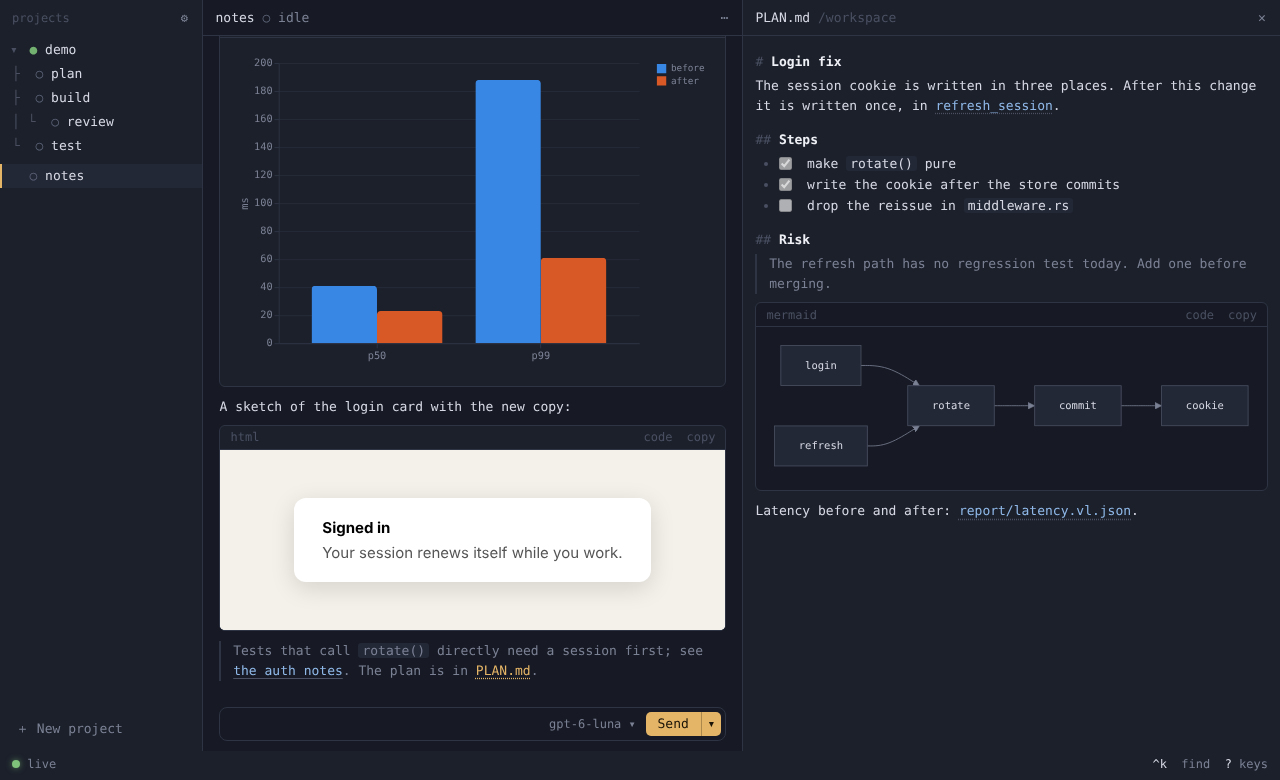
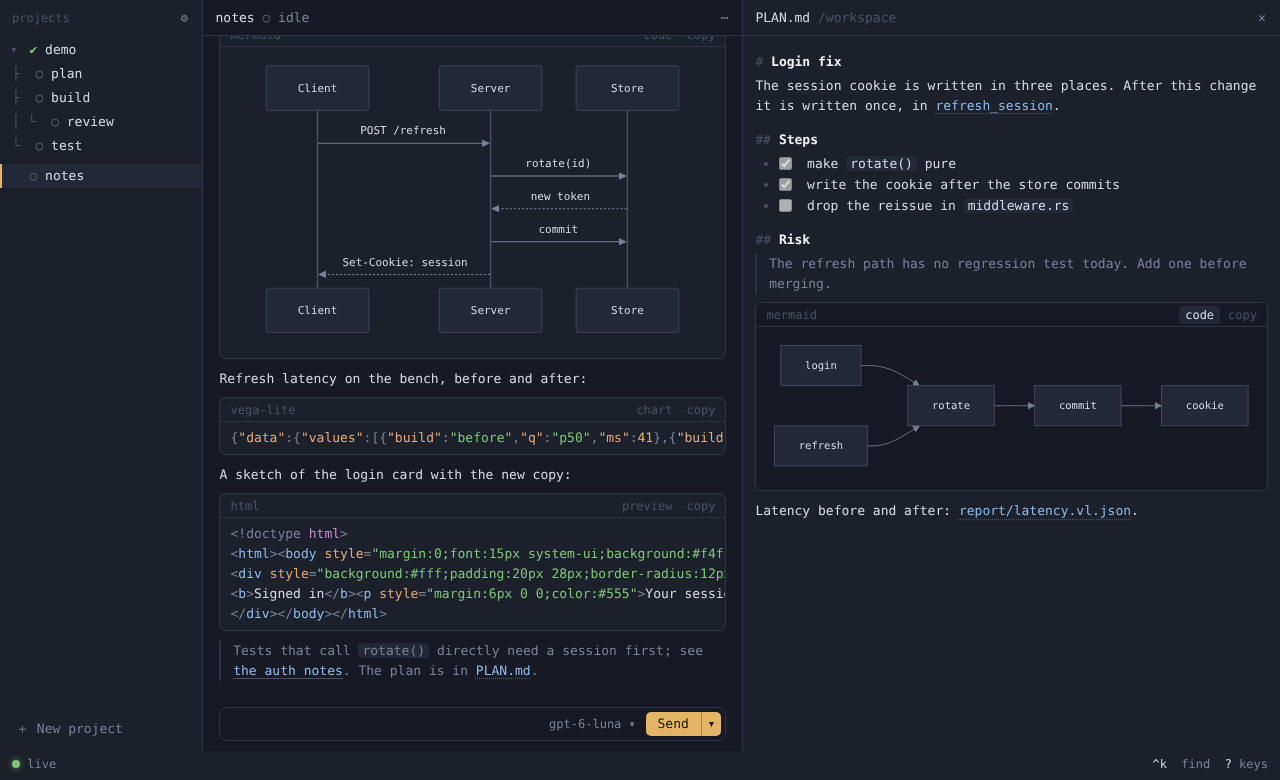
app: draw Mermaid diagrams in messages only on click
Mermaid lays out on the window's thread and its size limits do not bound
layout work: a 29-byte block-beta diagram with space:500000 holds the
window. Diagrams in a message now open as source like charts, html and
svg, and draw on a click; files opened beside the chat still draw at once.
The scroll watcher is gone.

Claude-Session: https://claude.ai/code/session_01L7djWGZLxGzzTF3RkEShDN

Changed region(s): [[0.1562, 0.0923, 0.5938, 0.8615], [0.4688, 0.0615, 0.5312, 0.1231], [0.1875, 0.2462, 0.2188, 0.2769]]

diff --git a/app/ui/rich.js b/app/ui/rich.js
@@ -41,14 +41,13 @@ window.Rich = (() => {
   const pre = (text, lang) => `<pre class="code"><code>${codeHTML(text, lang)}</code></pre>`;
   const CHART = new Set(['vega-lite', 'vegalite', 'vl', 'vega']);
   const toggle = '<button type="button" data-rich="view"></button>';
-  // A diagram or chart shows its source until it is drawn. HTML, SVG and charts in a message open as
-  // code, their preview a click away: all draw on the window's thread, and a page's script, an SVG's
-  // filters and animations or a chart's transforms (a `sequence` of a billion rows, a tick count of a
-  // billion) can take it over, so they run only when asked, block by block. Mermaid bounds itself (`maxTextSize`, `maxEdges`) and draws on its own.
-  // `page` runs it at once, for a file someone opened.
+  // A diagram, chart, page or SVG in a message opens as code, drawn a click away. All draw on the
+  // window's thread, and a few characters can ask for more than it can do (a page's loop, an SVG's
+  // filters, a chart's `sequence` to a billion, a Mermaid `space:500000`), so each runs only when
+  // asked, block by block. `page` draws it at once, for a file someone opened.
   function block(text, info, page = false) {
     const lang = (info ?? '').trim().split(/\s+/)[0].toLowerCase();
-    if (lang === 'mermaid' || lang === 'mmd') return `<div class="rc" data-kind="mermaid" data-lazy data-view="code">${head('mermaid', toggle)}<div class="view"></div>${pre(text, '')}</div>`;
+    if (lang === 'mermaid' || lang === 'mmd') return `<div class="rc" data-kind="mermaid" data-lazy${page ? ' data-run' : ''} data-view="code">${head('mermaid', toggle)}<div class="view"></div>${pre(text, '')}</div>`;
     if (CHART.has(lang)) return `<div class="rc" data-kind="chart" data-lang="${lang === 'vega' ? 'vega' : 'vega-lite'}" data-lazy${page ? ' data-run' : ''} data-view="code">${head(lang, toggle)}<div class="view"></div>${pre(text, 'json')}</div>`;
     if (lang === 'html' || lang === 'htm') return `<div class="rc" data-kind="html" data-view="${page ? 'view' : 'code'}">${head(lang, '<button type="button" data-rich="view"></button>')}<div class="view frame"></div>${pre(text, 'xml')}</div>`;
     // An SVG draws as an image, which runs no script and loads nothing.
@@ -203,35 +202,17 @@ window.Rich = (() => {
     host.append(f);
   }
   function unmount(box) { box.querySelector('.view')?.replaceChildren(); }
-  // Diagrams and charts draw when they come near the screen, so opening a long transcript draws only
-  // what is read. The pane is the root: a margin around the window would be clipped by the pane's own
-  // scrolling. Blocks a redraw took out of the pane are let go on the pane's next hydrate.
-  const watchers = new Map();
   function draw(box, cached = false) {
     const src = box.querySelector('pre').textContent;
     drawLazy(box, src, box.dataset.kind === 'mermaid' ? mermaidSVG : chartSVG, cached);
   }
-  function watch(box) {
-    const pane = box.closest('.scroll');
-    if (typeof IntersectionObserver !== 'function' || !pane) { draw(box); return; }
-    if (!watchers.has(pane)) {
-      const boxes = new Set(), o = new IntersectionObserver((seen) => {
-        for (const e of seen) if (e.isIntersecting) { o.unobserve(e.target); boxes.delete(e.target); draw(e.target); }
-      }, { root: pane, rootMargin: '400px 0px' });
-      watchers.set(pane, { o, boxes });
-    }
-    const w = watchers.get(pane);
-    for (const b of w.boxes) if (!b.isConnected) { w.o.unobserve(b); w.boxes.delete(b); }
-    w.boxes.add(box); w.o.observe(box);
-  }
-  // After HTML from `html` is in the document: diagrams start, a chart already drawn shows again, and
-  // a file's page or SVG shows. A preview someone ran in a message is code again once its pane is drawn
-  // anew: running it is asked of one block, once.
+  // After HTML from `html` is in the document: a file's drawing starts, and a diagram or chart already
+  // drawn shows again from the cache. A page or SVG someone ran in a message is code again once its
+  // pane is drawn anew: running it is asked of one block, once.
   function hydrate(root) {
     for (const box of root.querySelectorAll('.rc[data-lazy]:not([data-on]), .rc[data-kind="html"]:not([data-on]), .rc[data-kind="svg"]:not([data-on])')) {
       box.dataset.on = '';
-      if (box.dataset.kind === 'mermaid' || 'run' in box.dataset) watch(box);
-      else if (box.dataset.kind === 'chart') draw(box, true);
+      if ('lazy' in box.dataset) draw(box, !('run' in box.dataset));
       else if (box.dataset.view === 'view') mount(box);
     }
   }
@@ -255,7 +236,7 @@ window.Rich = (() => {
     const box = b.closest('.rc');
     if (b.dataset.rich === 'copy') {
       navigator.clipboard?.writeText(box.querySelector('pre').textContent).then(() => { b.textContent = 'copied'; setTimeout(() => { b.textContent = 'copy'; }, 1200); }, () => {});
-    } else if (b.dataset.rich === 'view' && box.dataset.kind === 'chart' && !('drawn' in box.dataset)) {
+    } else if (b.dataset.rich === 'view' && 'lazy' in box.dataset && !('drawn' in box.dataset)) {
       draw(box);
     } else if (b.dataset.rich === 'view' && (!('lazy' in box.dataset) || 'drawn' in box.dataset)) {
       box.dataset.view = box.dataset.view === 'view' ? 'code' : 'view';

diff --git a/app/ui/app.css b/app/ui/app.css
@@ -115,7 +115,6 @@ button:focus-visible,[tabindex]:focus-visible{outline:1px solid var(--amber);out
 .rc:not([data-view=view]) [data-rich=view]::after{content:'preview'}
 .rc[data-kind=mermaid]:not([data-view=view]) [data-rich=view]::after{content:'diagram'}
 .rc[data-kind=chart]:not([data-view=view]) [data-rich=view]::after{content:'chart'}
-.rc[data-kind=mermaid]:not([data-drawn]) [data-rich=view]{display:none}
 .rc[data-asked]:not([data-drawn]) [data-rich=view]::after{content:'drawing…'}
 .rc pre.code{margin:0;padding:6px 10px;white-space:pre;overflow-x:auto;font:inherit;scrollbar-width:thin;scrollbar-color:var(--t-line) transparent}
 .rc[data-view=view]>pre,.rc:not([data-view=view])>.view{display:none}

diff --git a/docs/APP.md b/docs/APP.md
@@ -1143,8 +1143,11 @@ pane drawn again reuses it. Fenced blocks are drawn by their language:
   names its language or is left plain; nothing guesses. Blocks over 64 KiB
   stay plain.
 - **`mermaid`** draws as a diagram with [Mermaid](https://mermaid.js.org),
-  themed to the window, with its source a click away. A diagram that does not
-  parse stays as its source with the parser's message in the block's head.
+  themed to the window. In a message it opens as its source and draws with a
+  click on **diagram**: Mermaid lays out on the window's thread, and a few
+  characters (`block-beta` with `space:500000`) can hold it for minutes. A
+  diagram that does not parse stays as its source with the parser's message
+  in the block's head.
 - **`vega-lite`** (or `vl`, or `vega` for a full Vega spec) draws as a chart
   with [Vega](https://vega.github.io), as static SVG in the window's colors:
   an eight-hue categorical order validated for color-vision deficiency
@@ -1172,11 +1175,12 @@ also draw, and an HTML preview can still draw a chart with its own inline
 SVG or canvas.
 
 Highlighting, Mermaid and Vega load the first time something needs them;
-marked loads with the page. A diagram draws when it comes within 400 px of
-the screen, so opening a long chat draws only what is read, and a reader
-below one that draws keeps their place. Mermaid bounds its own work (50,000
-characters and 500 edges by default). Drawn diagrams and charts are kept by
-source (a chart also by its width) for redraws: at most 64 and 8 MiB. A
+marked loads with the page. Nothing in a message draws until asked, so
+opening a long chat draws nothing, and a reader below a block that draws
+keeps their place. Mermaid's own limits (50,000 characters, 500 edges) do
+not bound its layout work, which is why a diagram waits for a click. Drawn
+diagrams and charts are kept by source (a chart also by its width) and show
+again when their pane is redrawn: at most 64 and 8 MiB. A
 message's drawn HTML counts toward the chat's 8 MiB of decoded bodies, and
 drawing past that folds the oldest bodies as a load would. All are vendored
 under `app/ui/vendor` (versions
@@ -1189,10 +1193,11 @@ path is the agent's folder's, and a link inside an open file is relative to
 that file. The core reads the first 4 MiB of a regular file (`read_file`; a
 FIFO or device is refused, as reading one need not end, and a window on a
 host is refused by name, as its files are the host's). The file draws by its
-kind: Markdown, a diagram (`.mmd`, `.mermaid`), a chart (`.vl.json`,
-`.vg.json`, drawn at once), a page (`.html`, opened as its preview; opening
-the file is the asking), an SVG or image, a CSV or TSV as a table of its first 1,000 rows and 256 columns
-(quoted fields kept whole), a binary file as its size,
+kind: Markdown, a diagram (`.mmd`, `.mermaid`) or a chart (`.vl.json`,
+`.vg.json`), drawn at once, a page (`.html`, opened as its preview), an SVG
+or image (opening the file is the asking), a CSV or TSV as a table of its
+first 1,000 rows and 256 columns (quoted fields kept whole), a binary file
+as its size,
 anything else as code highlighted by its extension. Esc or ✕ closes it and
 brings back the task that was beside, if any. A write or edit to the open
 file reads it again; deleting the agent it came from, or attaching to another
@@ -1244,11 +1249,13 @@ interpreter's refusal in its head. That the Tauri core injects its
 scripts into the main frame only was read from tauri 2.11.5's source
 (`for_main_frame_only: true`), not observed in the macOS webview. A page
 whose script loops forever left the window responsive while it was not
-asked to run; twelve diagrams in a chat opened at its end drew one, and a
-diagram drawing just above the visible top left the paragraph below it at the
-same screen position. A Mermaid image node and a theme `url()` pointing at a
-website were refused by the window's policy and made no request. A Vega spec with a `sequence` transform to a billion
-left the window responsive in view, as it draws only when asked.
+asked to run, and so did a `block-beta` diagram with `space:500000` until
+its **diagram** was clicked (drawn, it held Chromium past 110 s even at
+`space:1000`). A Mermaid image node and a theme `url()` pointing at a
+website were refused by the window's policy and made no request. A Vega
+spec with a `sequence` transform to a billion left the window responsive in
+view, as it draws only when asked. A diagram fenced inside an opened
+Markdown file still waits for its click.
 
 ## What it costs, and where the bounds are
 
